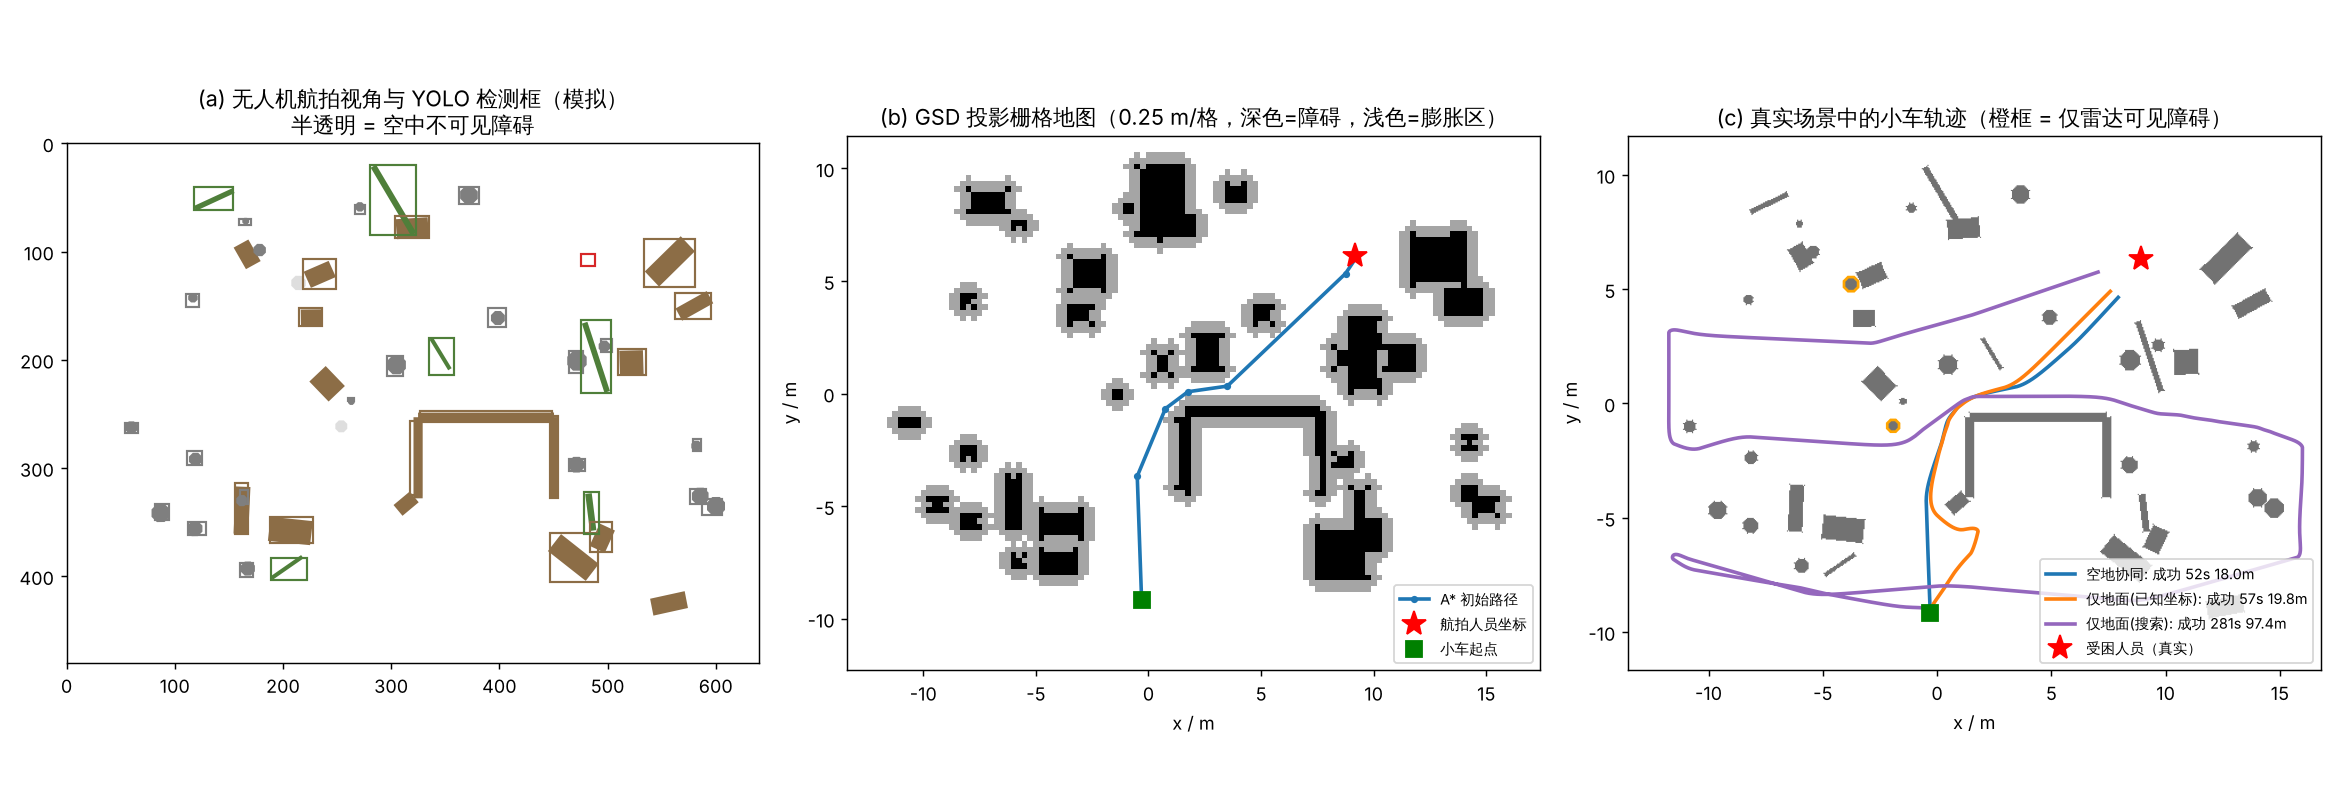
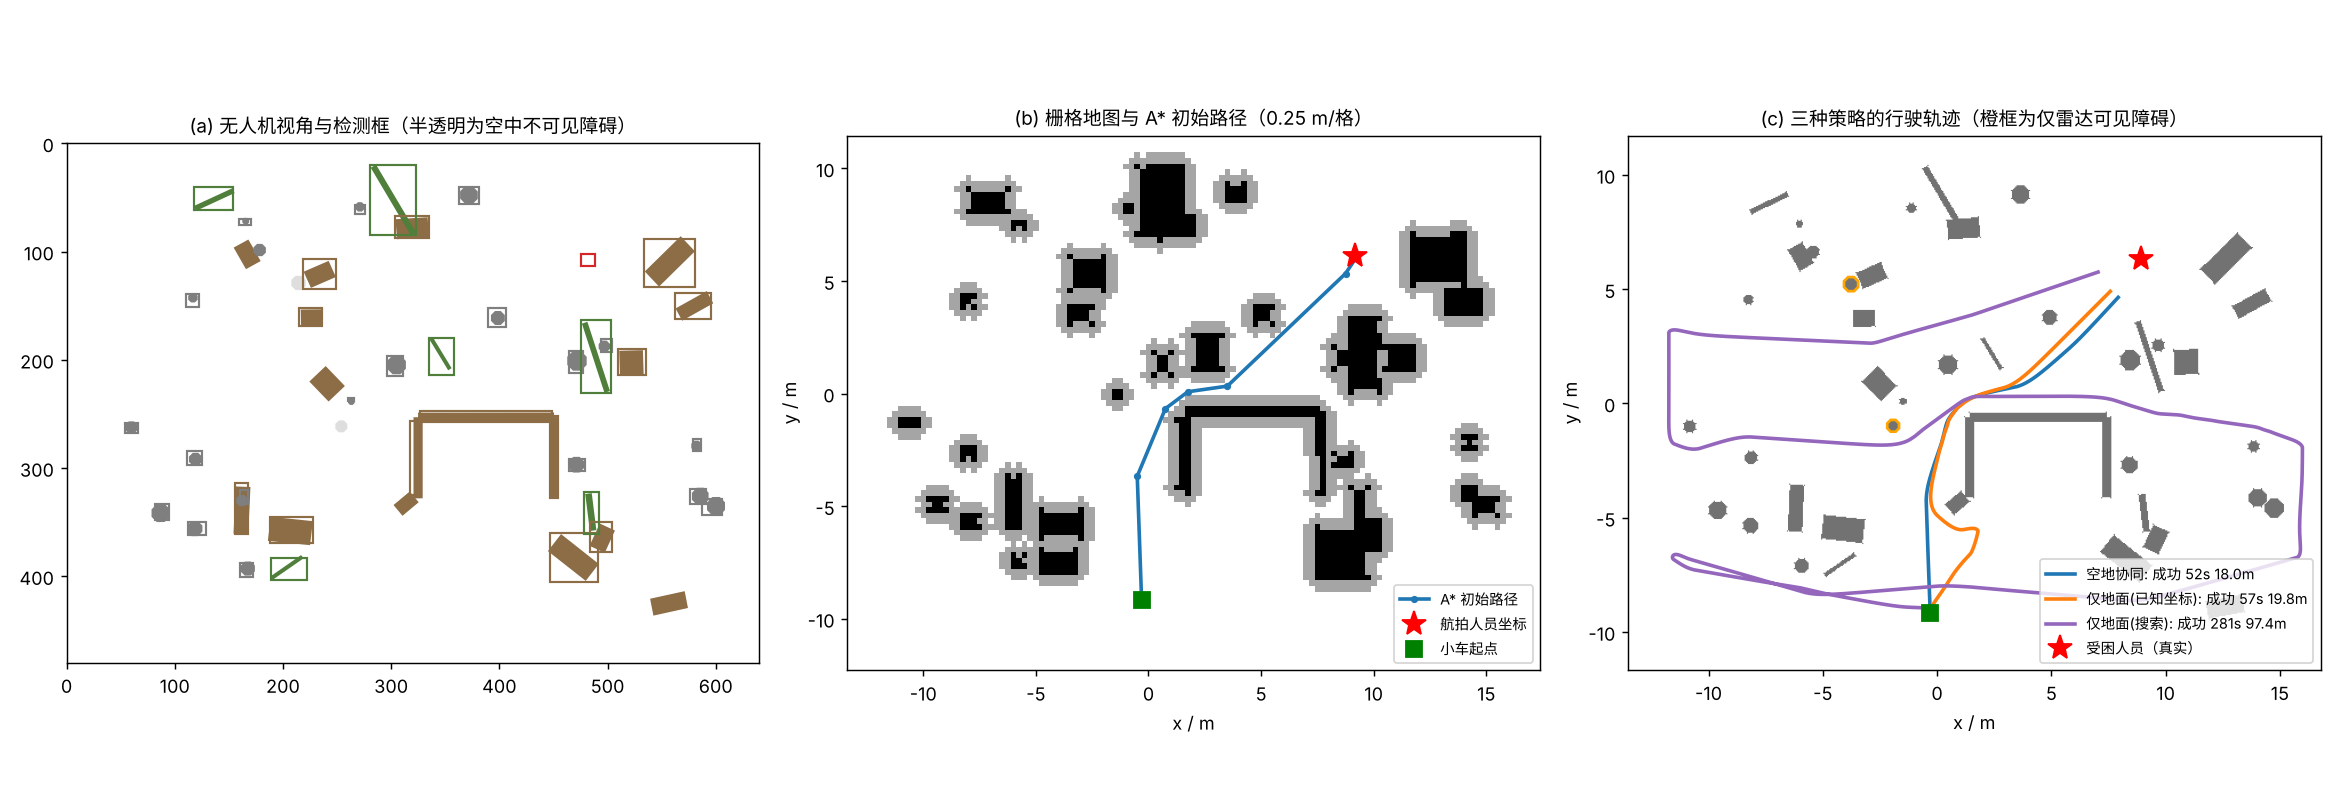
仿真示例图：中文字体与子图标题与结项报告一致
Claude-Session: https://claude.ai/code/session_01QqtG3fLFT5srweu5p7N91V

diff --git a/deploy_raspberry_pi/rescue/sim.py b/deploy_raspberry_pi/rescue/sim.py
@@ -433,7 +433,7 @@ def plot_mission(scene, dets, aerial, results, out_path):
     import matplotlib.pyplot as plt
     from matplotlib.patches import Polygon, Rectangle
 
-    plt.rcParams["font.sans-serif"] = ["Noto Sans CJK SC", "WenQuanYi Zen Hei", "SimHei",
+    plt.rcParams["font.sans-serif"] = ["Noto Sans SC", "Noto Sans CJK SC", "WenQuanYi Zen Hei", "SimHei",
                                        "Microsoft YaHei", "DejaVu Sans"]
     plt.rcParams["axes.unicode_minus"] = False
     colors = {"debris": "#8c6d46", "stone": "#7f7f7f", "wood": "#4f7f3a", "person": "#d62728"}
@@ -452,7 +452,7 @@ def plot_mission(scene, dets, aerial, results, out_path):
     ax.set_xlim(0, scene.cam.width)
     ax.set_ylim(scene.cam.height, 0)
     ax.set_aspect("equal")
-    ax.set_title("(a) 无人机航拍视角与 YOLO 检测框（模拟）\n半透明 = 空中不可见障碍")
+    ax.set_title("(a) 无人机视角与检测框（半透明为空中不可见障碍）", fontsize=10.5)
 
     # (b) 航拍栅格地图 + 初始 A* 路径
     gm = aerial.gridmap
@@ -468,7 +468,7 @@ def plot_mission(scene, dets, aerial, results, out_path):
     for px, py, _ in aerial.persons_xy:
         ax.plot(px, py, "r*", ms=14, label="航拍人员坐标")
     ax.plot(*scene.start_pose[:2], "gs", ms=9, label="小车起点")
-    ax.set_title(f"(b) GSD 投影栅格地图（{gm.resolution} m/格，深色=障碍，浅色=膨胀区）")
+    ax.set_title(f"(b) 栅格地图与 A* 初始路径（{gm.resolution} m/格）", fontsize=10.5)
     ax.legend(loc="lower right", fontsize=8)
 
     # (c) 真实环境中的实际轨迹
@@ -489,7 +489,7 @@ def plot_mission(scene, dets, aerial, results, out_path):
                 label=f"{name}: {'成功' if r.success else '失败'} {r.time_s:.0f}s {r.distance_m:.1f}m")
     ax.plot(*scene.person_xy, "r*", ms=14, label="受困人员（真实）")
     ax.plot(*scene.start_pose[:2], "gs", ms=9)
-    ax.set_title("(c) 真实场景中的小车轨迹（橙框 = 仅雷达可见障碍）")
+    ax.set_title("(c) 三种策略的行驶轨迹（橙框为仅雷达可见障碍）", fontsize=10.5)
     ax.legend(loc="lower right", fontsize=8)
     for ax in axes[1:]:
         ax.set_xlabel("x / m")
